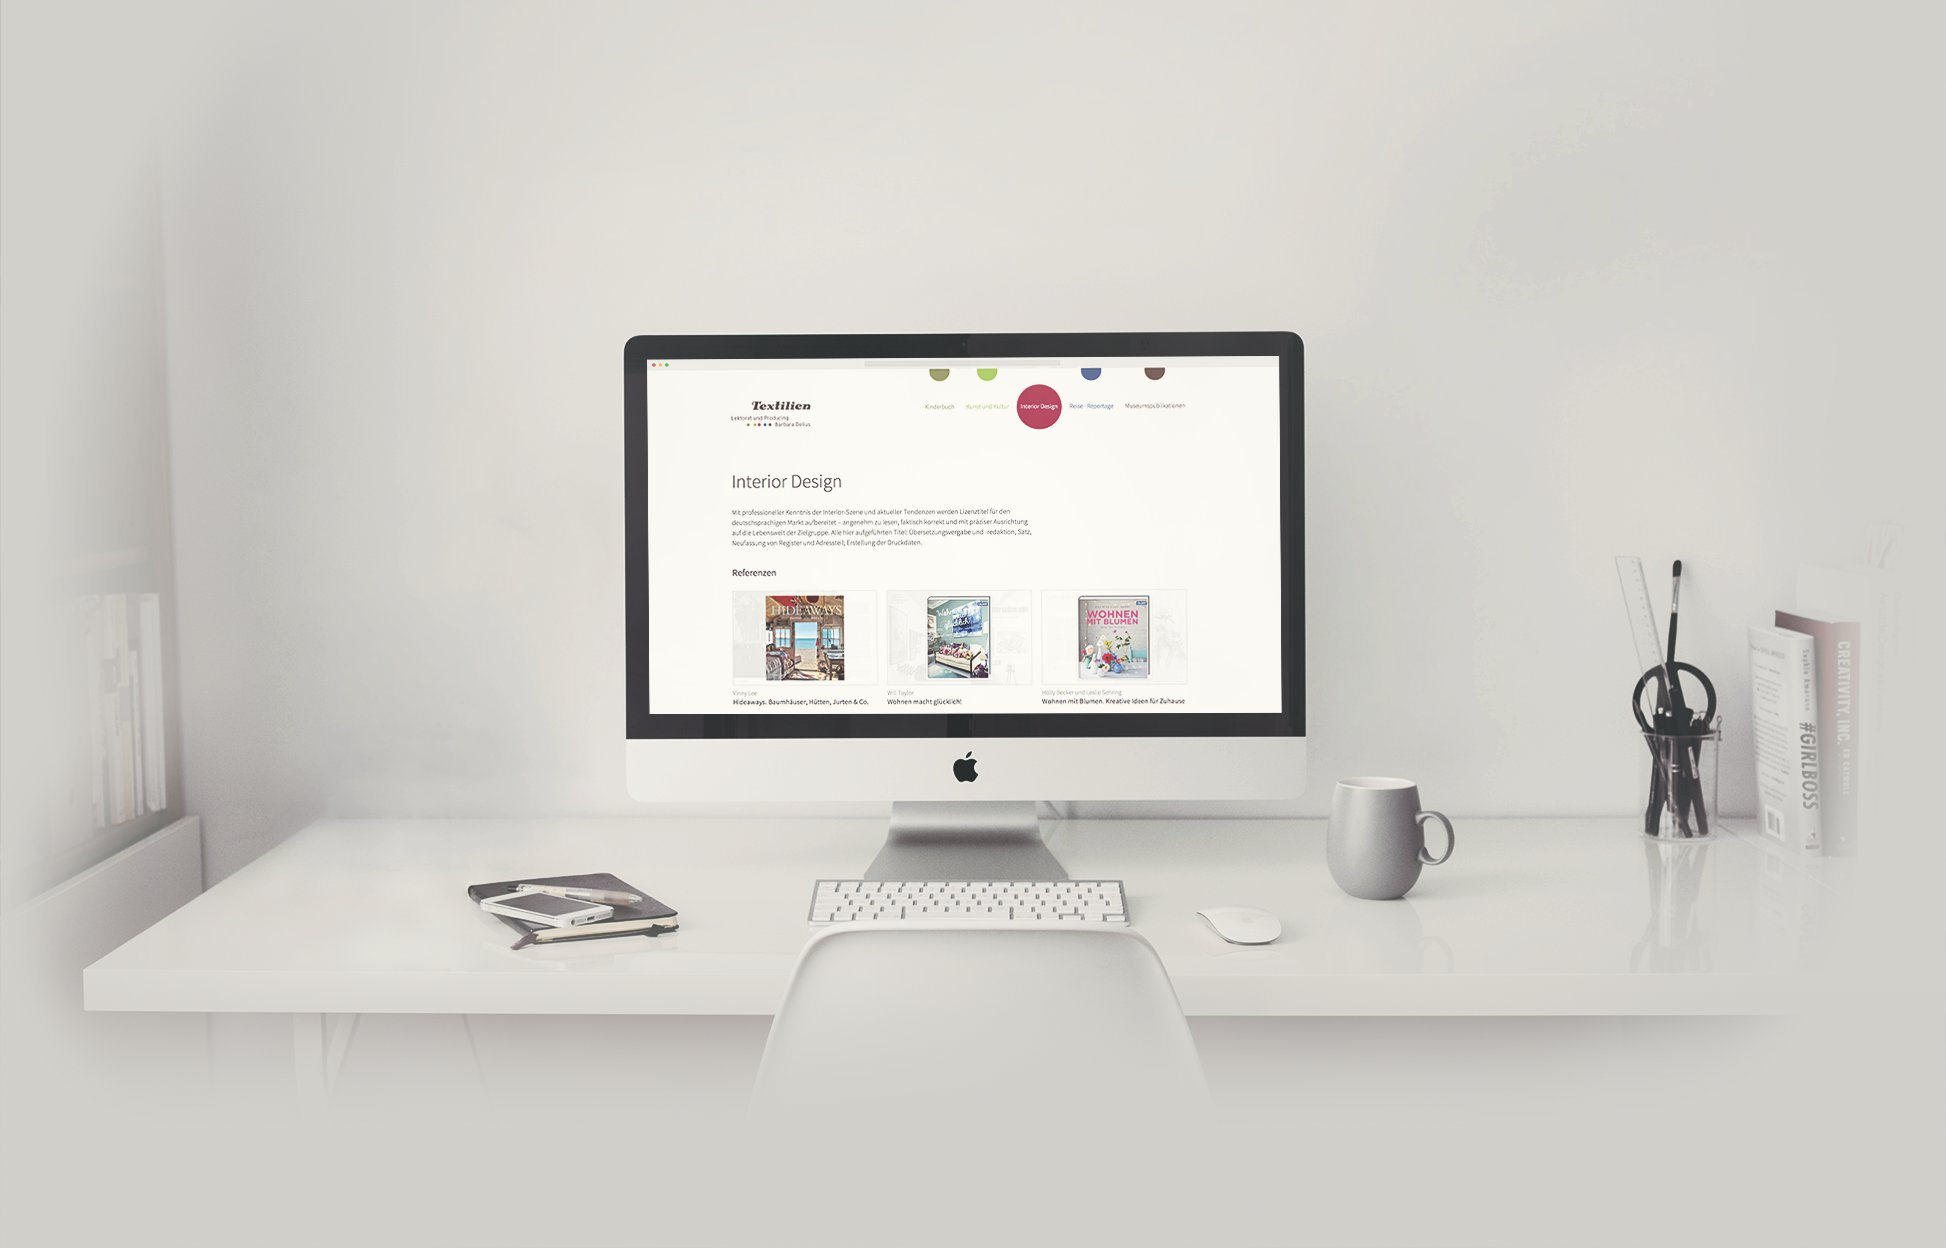
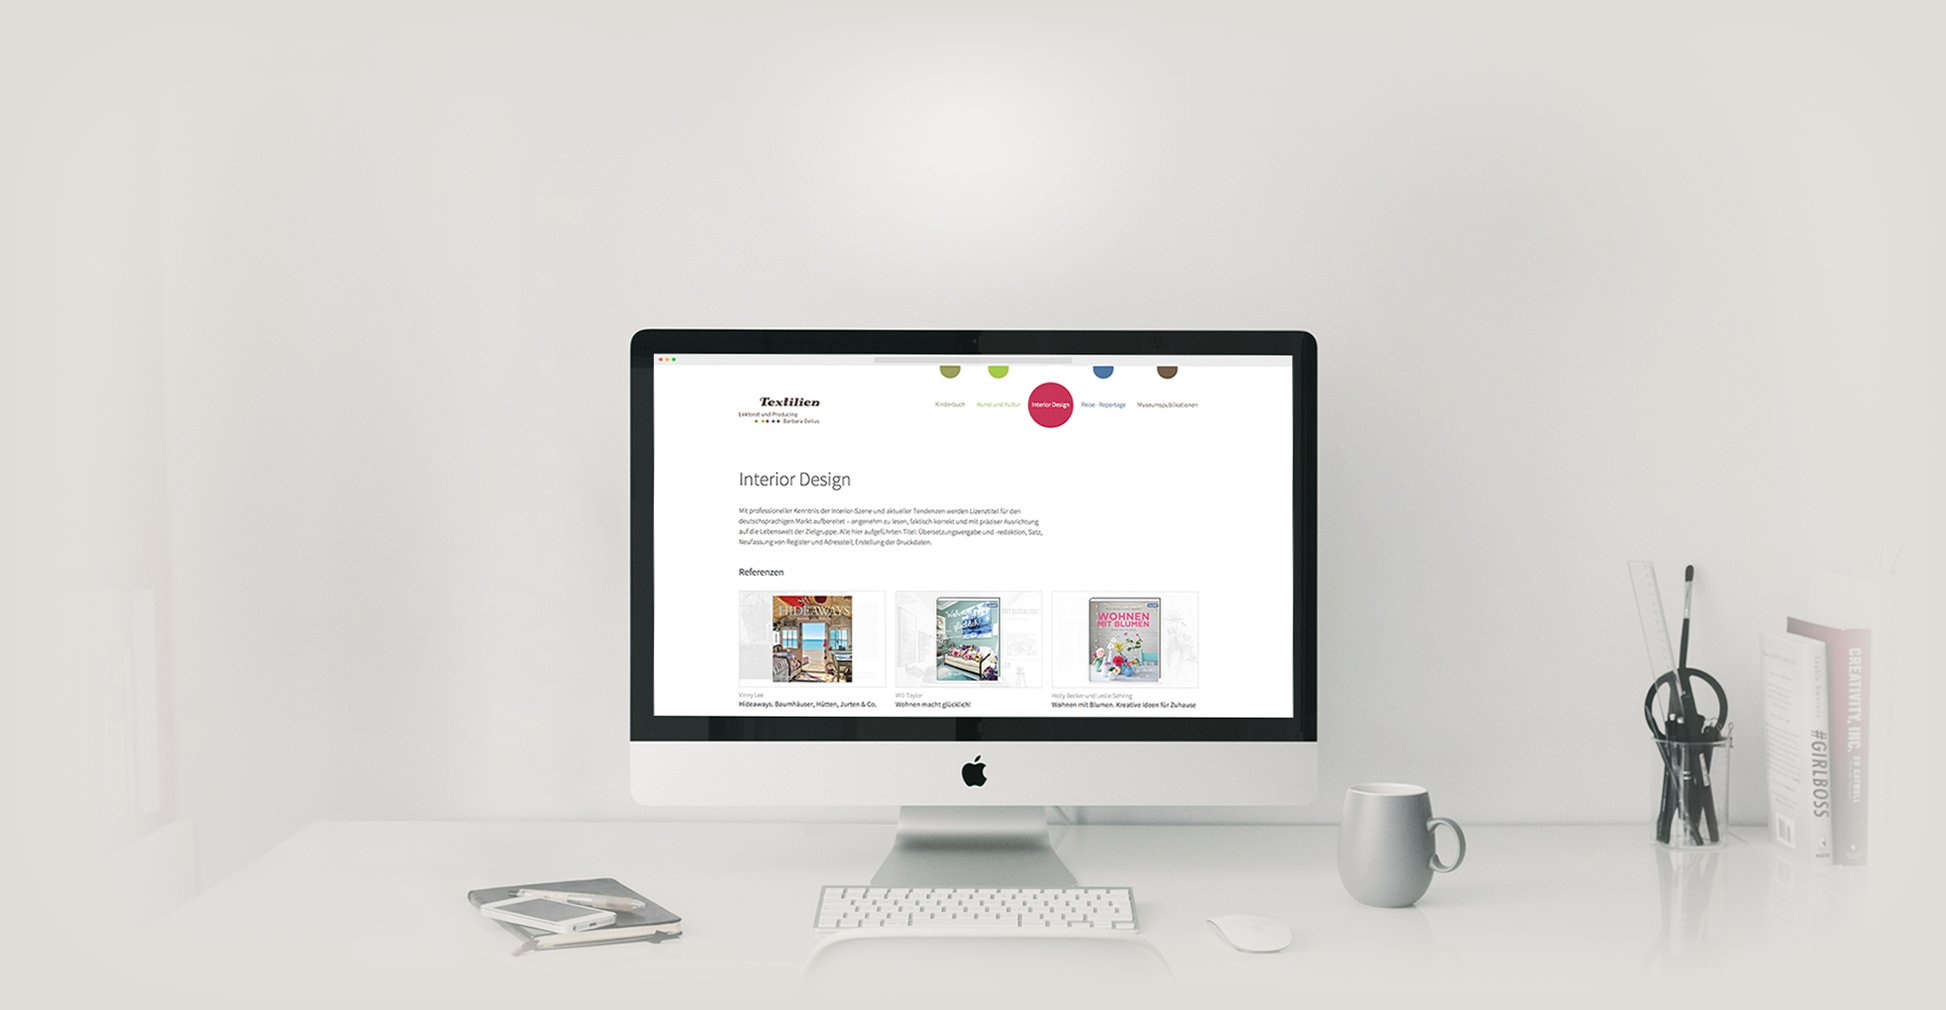
update

diff --git a/prototype/resources/scss/modules/_section-projects.scss b/prototype/resources/scss/modules/_section-projects.scss
@@ -167,21 +167,38 @@ SECTION PROJECTS
 }
 
 .project-textilien {
-	background: #d2d0cb url('../media/textilien/textilien-hero.jpg') center top no-repeat;
+	background: #e0ddd9 url('../media/textilien/textilien-hero.jpg') center top no-repeat;
 
 	.section__header {
-		padding-bottom: 550px;
+		padding-bottom: 650px;
 	}
 }
 
 .project__details {
-	padding-top: 2 * 1.45rem;
-	background: #fff;
-	background: rgba(#fff, .75);
-	background: rgba(#d2d0cb, .75);
-	box-shadow: 0 0 50px 30px rgba(#d2d0cb, .75);
+	margin: 2*1.45rem 0;
+	// background: rgba(#fff, .75);
 }
 
+.push-headline {
+	display: inline-block;
+	float: left;
+	position: relative;
+	vertical-align: top;
+	background: greenyellow;
+
+	h3, h4 {
+		position: absolute;
+		margin: 0;
+		top: 0;
+		right: 2rem;
+		// background: red;
+
+		font-size: 1.4rem;
+		font-weight: 300;
+		line-height: 1.73;
+		letter-spacing: .05em;
+	}
+}
 
 
 

diff --git a/prototype/resources/scss/global/_base.scss b/prototype/resources/scss/global/_base.scss
@@ -121,6 +121,7 @@ a {
 ul, li {
 	margin: 0;
 	padding: 0;
+	list-style: none;
 }
 
 p {
@@ -139,6 +140,18 @@ h2 {
 h3 {
 	font-size: 2.5rem;
 	font-weight: 100; //thin
+}
+
+h4 {
+	font-size: 1.4rem;
+	font-weight: 300;
+	line-height: 1.2;
+	margin: 1.2em 0;
+	letter-spacing: .05em;
+
+	&:first-child {
+		margin-top: 0;
+	}
 }
 
 .section__header {

diff --git a/prototype/resources/scss/modules/_button.scss b/prototype/resources/scss/modules/_button.scss
@@ -51,3 +51,9 @@ BUTTONS
 .btn--busy {
 	animation: textpulse 1s alternate 399;
 }
+
+.close-btn {
+	position: absolute;
+	top: 4rem;
+	right: 4rem;
+}
